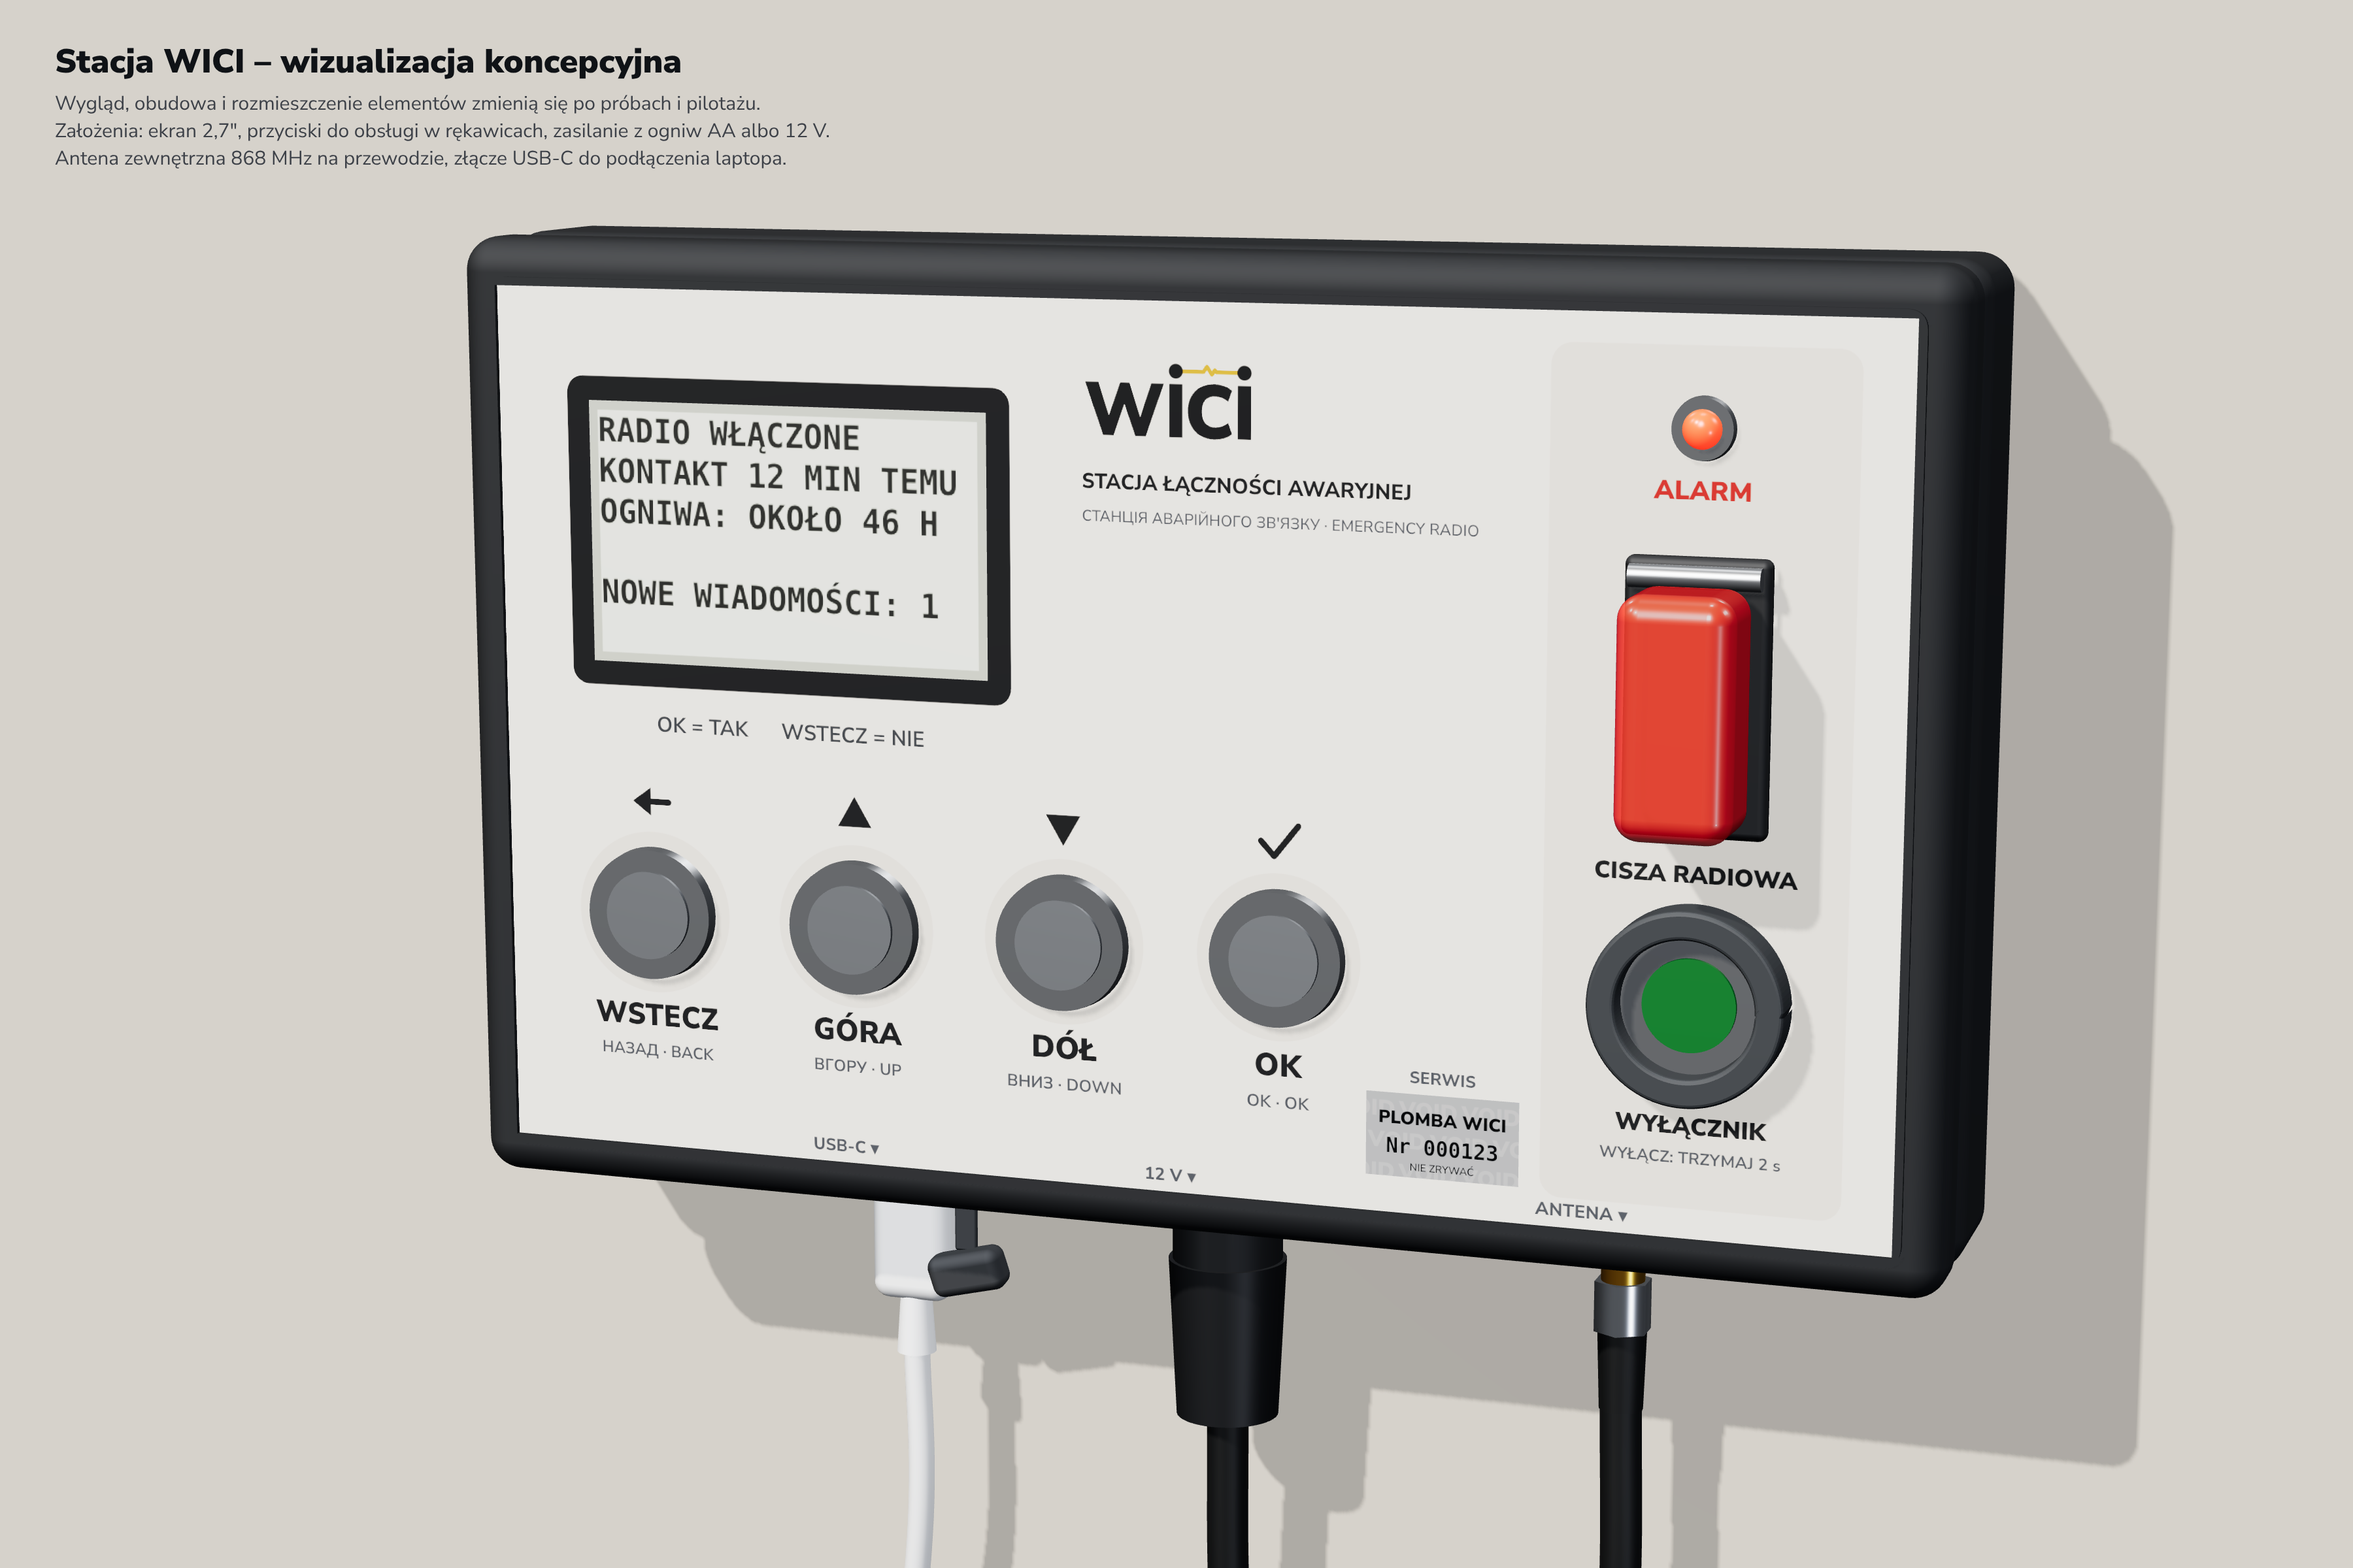
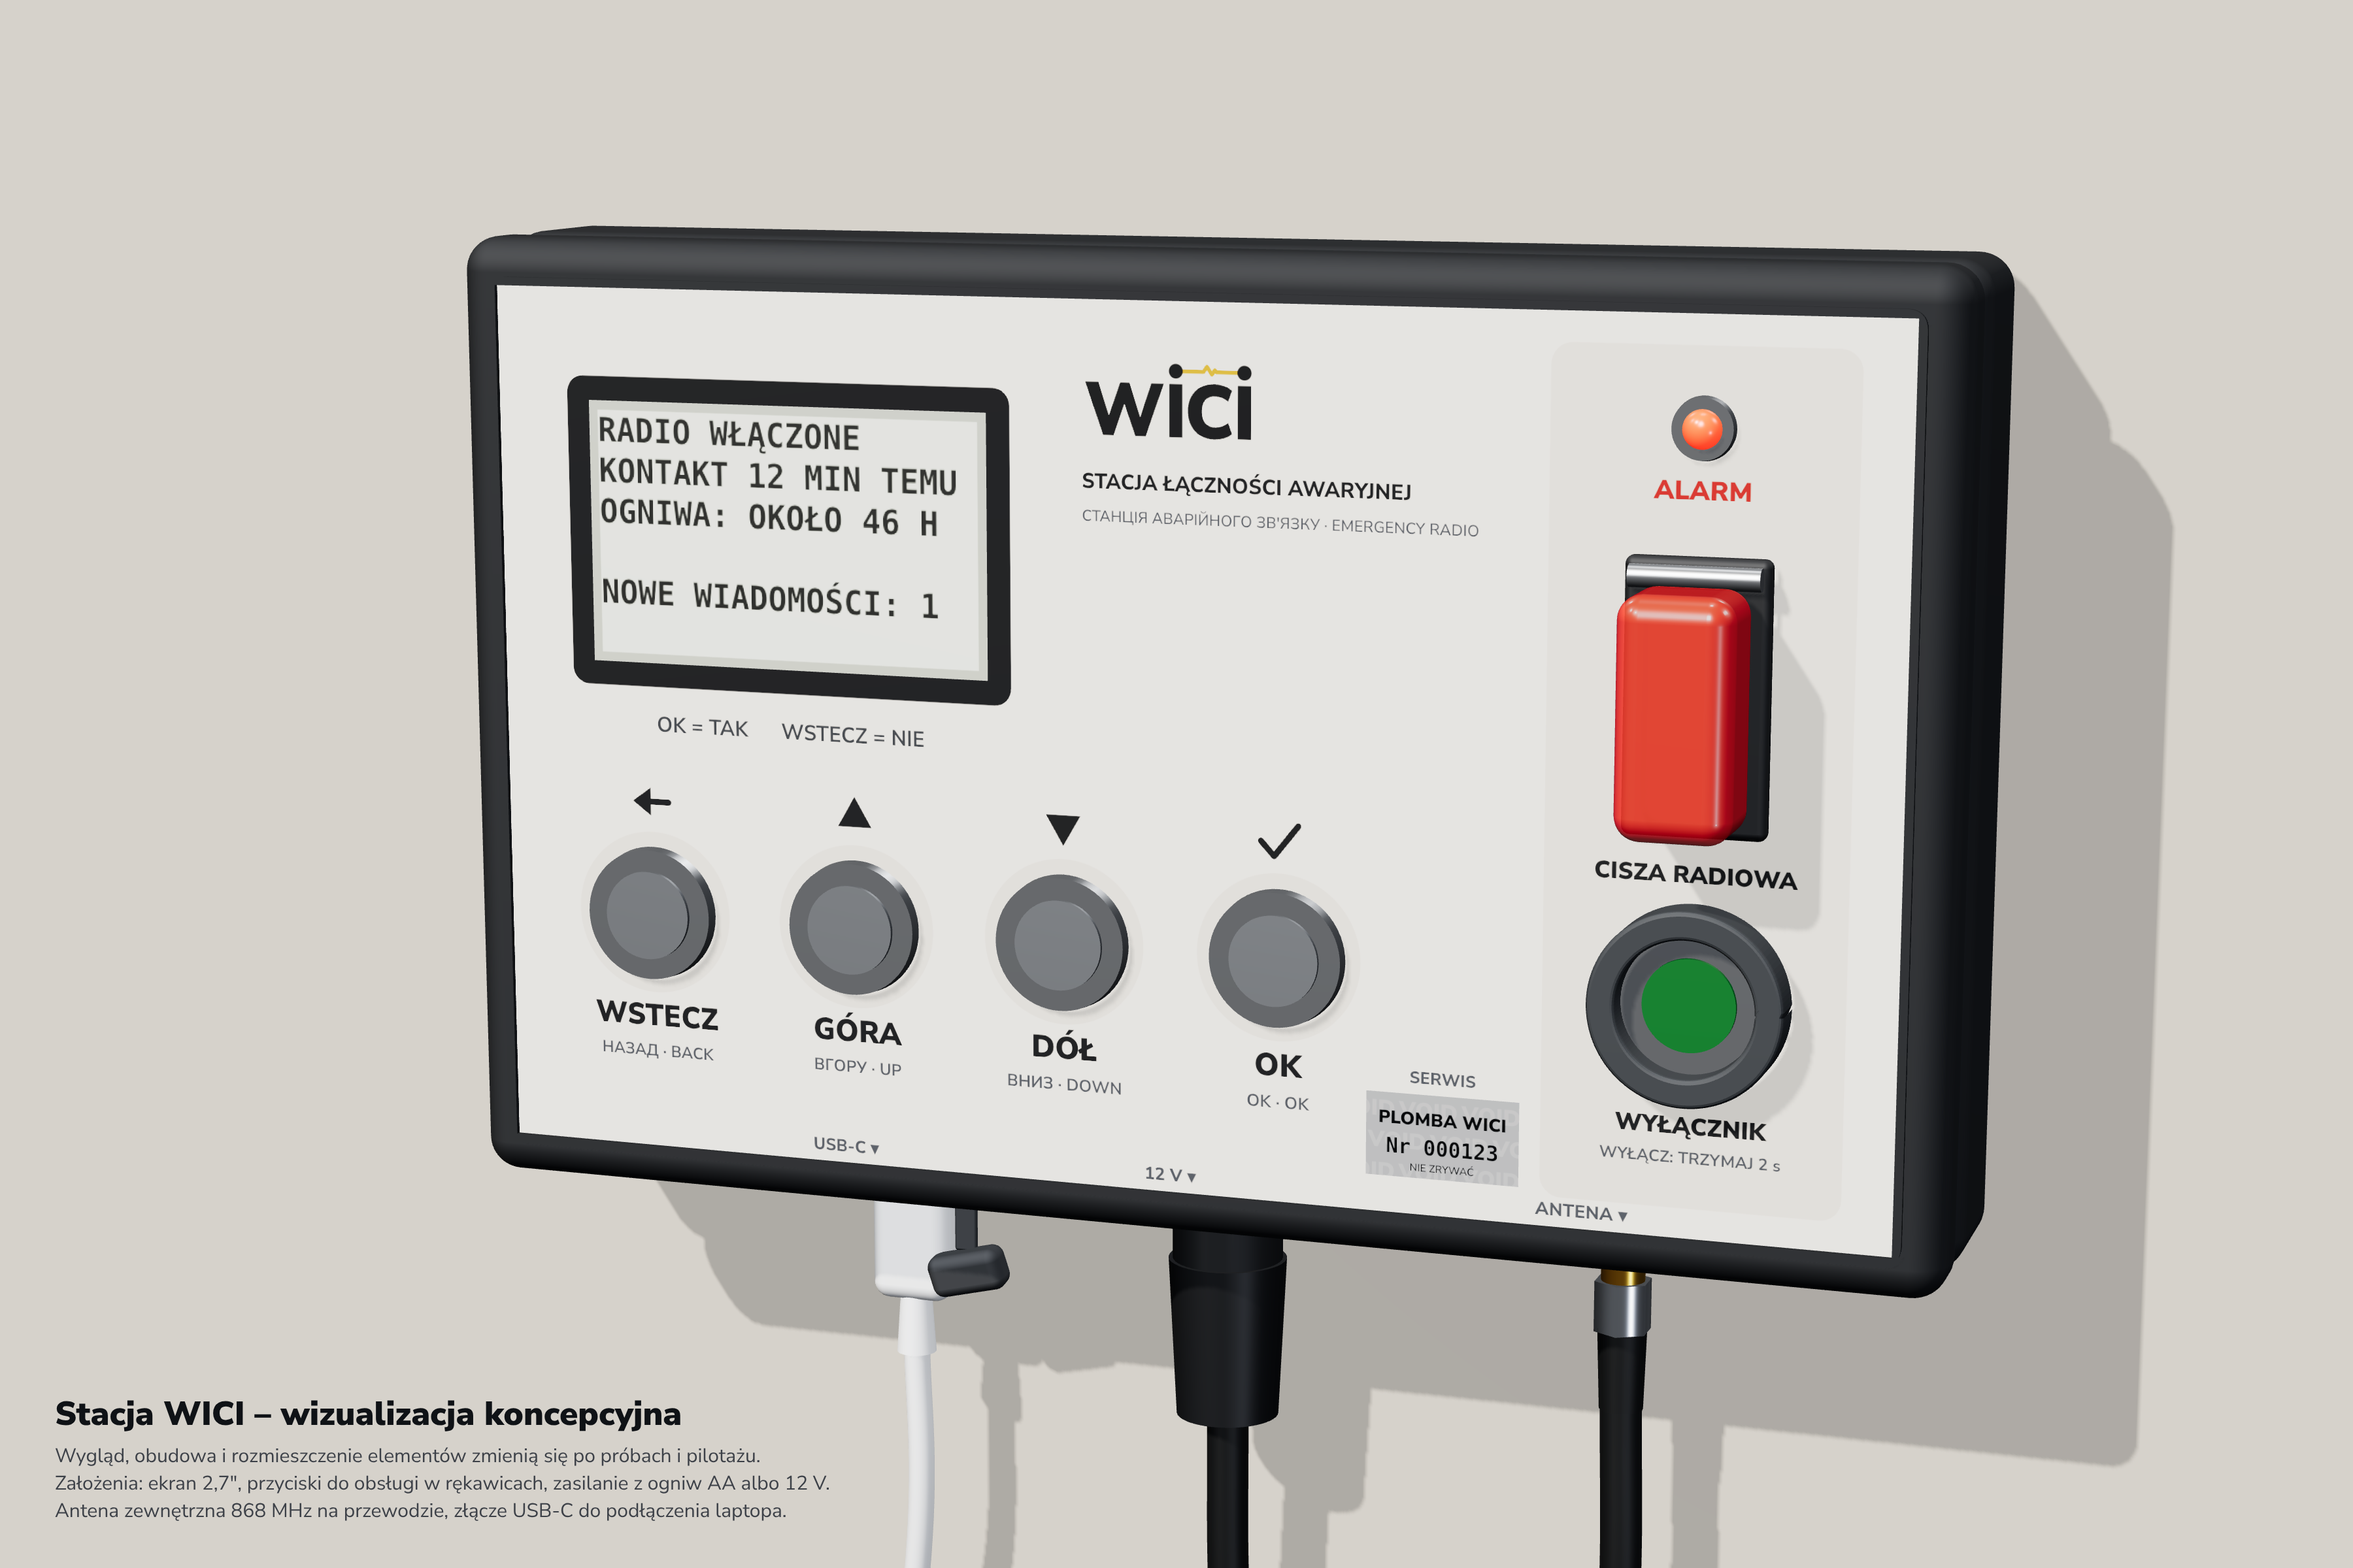
Materials render: caption back in the bottom-left corner
Claude-Session: https://claude.ai/code/session_01C14MPViLTkhq6RZ5PR56Cy

Changed region(s): [[0.0311, 0.875, 0.3422, 0.9688], [0.0311, 0.0312, 0.3422, 0.125]]

diff --git a/hardware/obudowa/render/stacja.html b/hardware/obudowa/render/stacja.html
@@ -14,7 +14,7 @@ html, body { margin: 0; background: #d9d4cb; overflow: hidden; font-family: "Nun
 #caption span { display: block; font-size: 18px; margin-top: 6px; color: #3d4148; max-width: 1500px; }
 #caption.side { top: auto; bottom: 32px; left: 1150px; }
 #caption.side span { max-width: 600px; }
-#caption.material { top: 40px; left: 56px; }
+#caption.material { top: auto; bottom: 44px; left: 56px; }
 #caption.material b { font-size: 34px; }
 #caption.material span { font-size: 20px; max-width: 1100px; line-height: 1.4; white-space: pre-line; }
 </style>
